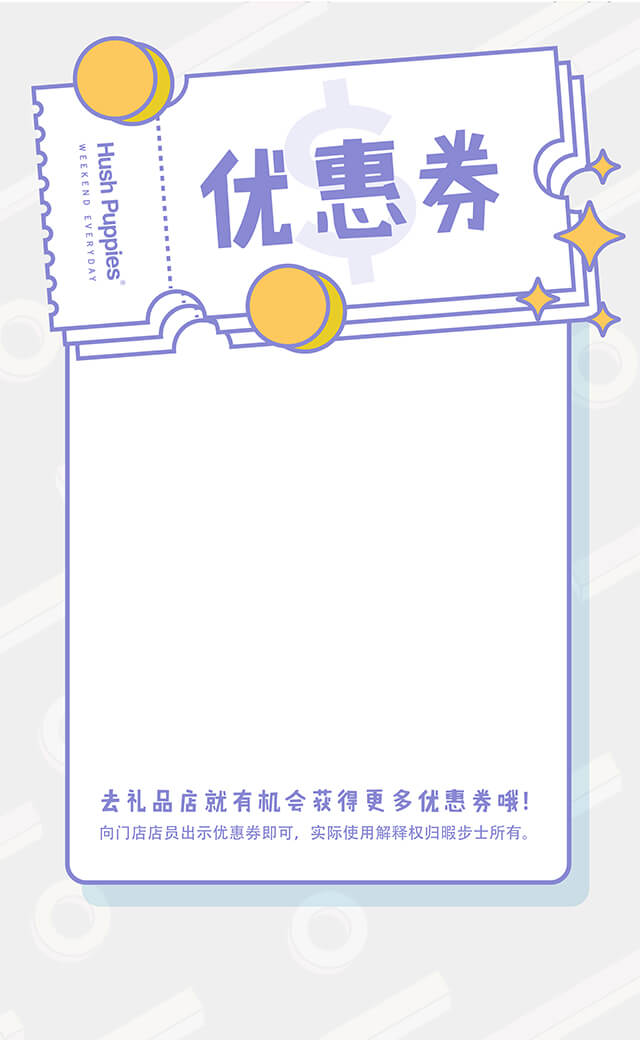
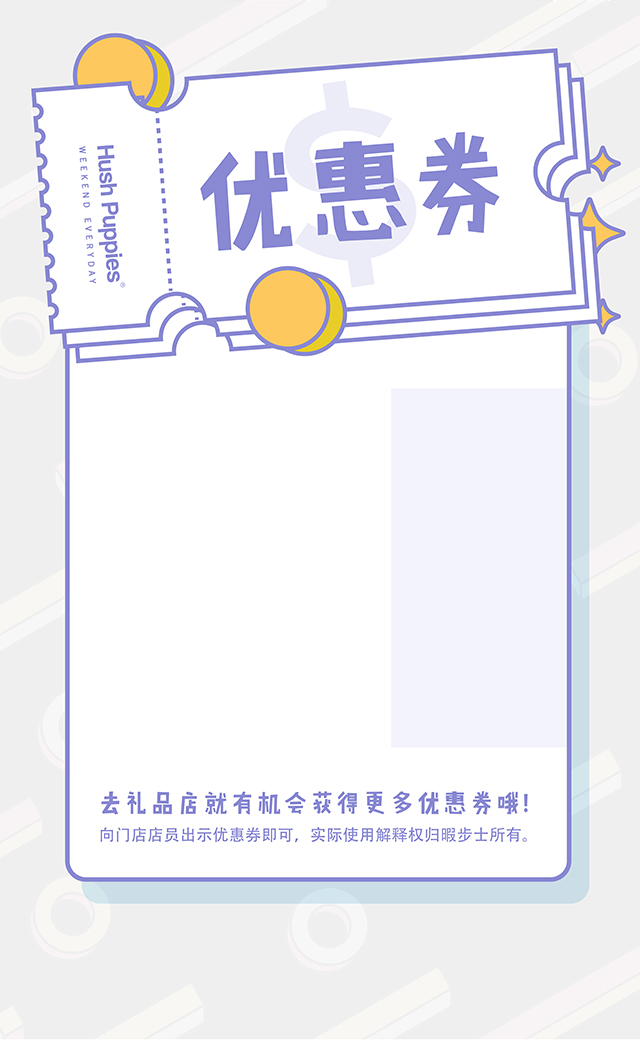
更新优惠券页面

diff --git a/public/vip/css/coupon.css b/public/vip/css/coupon.css
@@ -11,7 +11,7 @@ body{
 .coupon{
     width: 640px;
     height: 1038px;
-    background: url("../images/coupon/bg.png") no-repeat center center;
+    background: url("../images/coupon/bj.jpg") no-repeat center center;
 }
 .coupon .btn{
     position: absolute;
@@ -68,22 +68,22 @@ body{
 }
 .coupon .cjText li img{
     position: absolute;
-    top: 24px;
-    left: 8px;
+    top: 40px;
+    right: 16px;
 }
 .coupon .cjText li div{
     position: absolute;
-    left: 96px;
+    left: 20px;
     top: 30px;
-    color:#f8a85e;
+    color:#8a88d5;
+    font-size: 30px;
 
 }
 .coupon .cjText li div .textNum{
-    font-size: 30px;
+    font-size: 40px;
 }
 .coupon .cjText li div .dataText{
-    font-size: 20px;
-    margin-left: 34px;
+    font-size: 24px;
 }
 .coupon .popup{
     position: absolute;

diff --git a/resources/views/shop/coupon.blade.php b/resources/views/shop/coupon.blade.php
@@ -21,11 +21,11 @@
         {{--循环输出优惠券信息，NO.最多6位数--}}
         @foreach($tickets as $ticket)
             <li>
-                <img src="{{asset('vip/images/coupon/bone.png')}}" alt="">
                 <div>
                     <p class="textNum">NO:<span>{{ $ticket->ticket }}</span></p>
                     <p class="dataText">有效期:<span>{{ $ticket->end }}</span></p>
                 </div>
+                <img src="{{asset('vip/images/coupon/hundred.png')}}" alt="">
             </li>
         @endforeach
     </ul>
